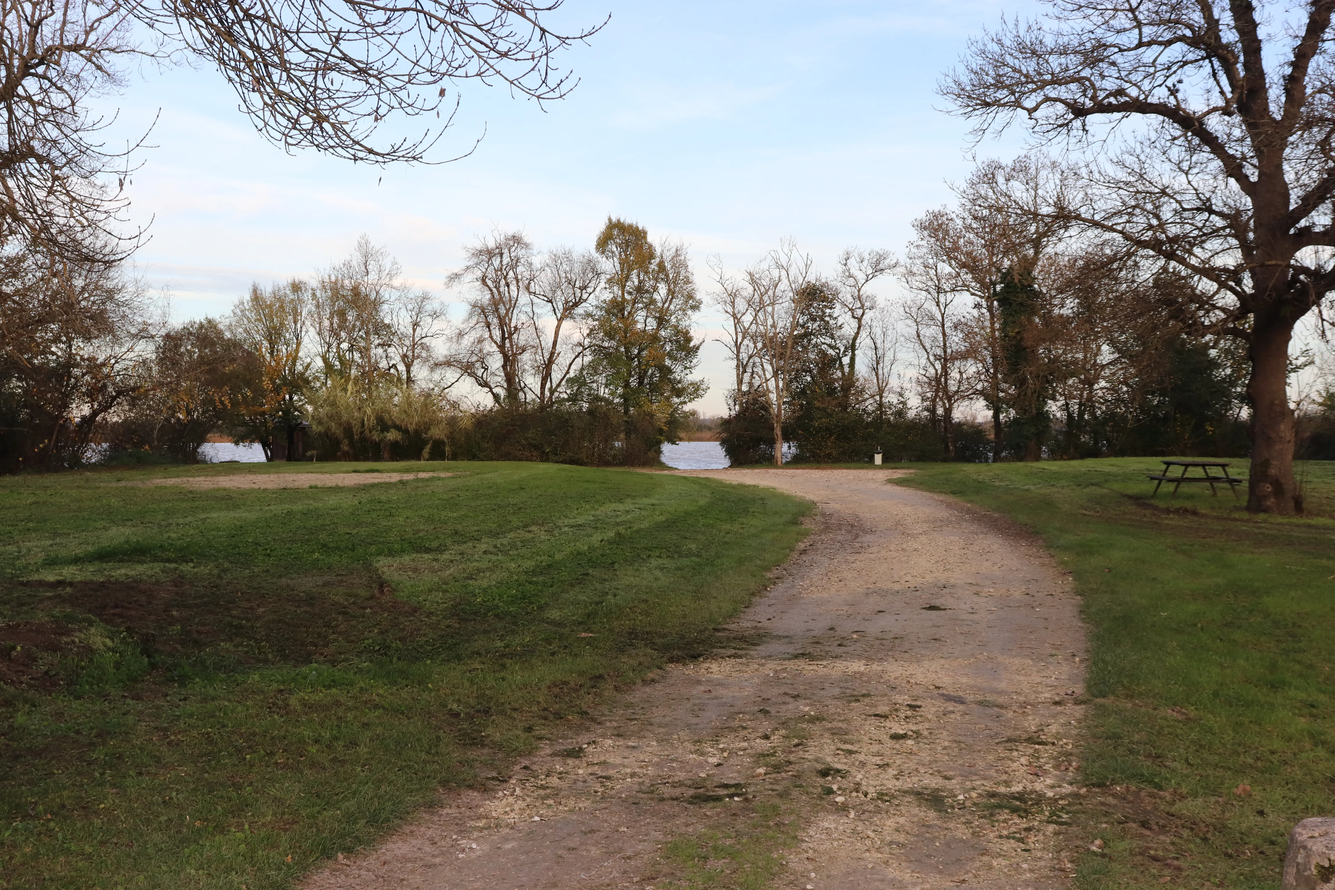
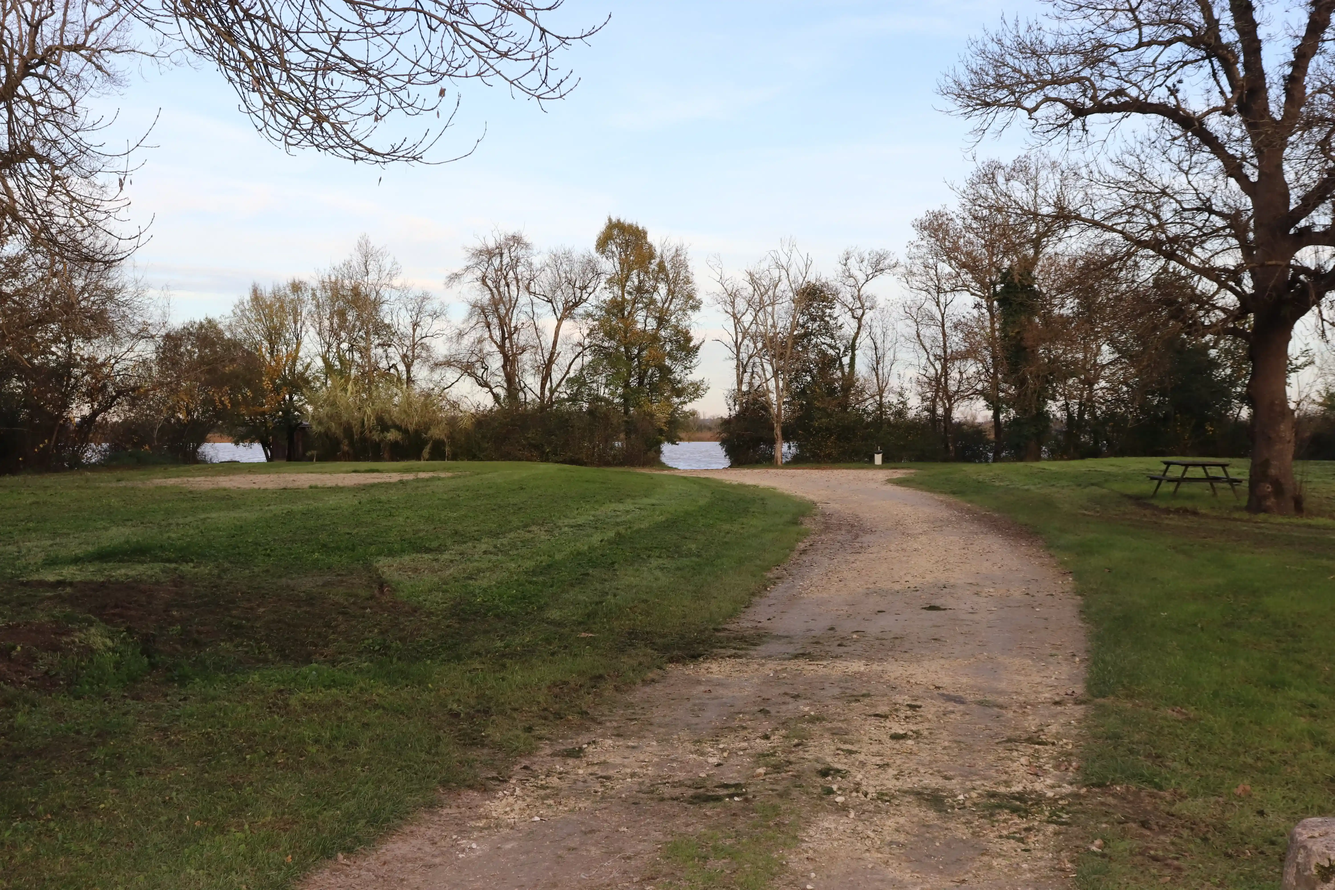
optimised the photos on the top

diff --git a/src/app/page.jsx b/src/app/page.jsx
@@ -3,6 +3,11 @@ import Image from "next/image";
 import logoArcins from "../../public/logoArcins.svg";
 import stat from "../../public/stat.svg";
 import search from "../../public/loupe.svg";
+import mairie from "../../public/mairie.webp";
+import eglise from "../../public/eglise.webp";
+import port1 from "../../public/port1.webp";
+import port4 from "../../public/port4.webp";
+import port5 from "../../public/port5.webp";
 
 import Card from "./components/card";
 import Navbar from "./components/navbarClient";
@@ -35,7 +40,83 @@ export default function Home() {
           <Image src={search} className="w-10 bg-white rounded-r-full px-2" />
         </label>
         <article>
-          <div className="carousselAnim h-[clamp(24rem,50vh,60rem)] lg:w-[32rem] lg:h-[40rem] rounded-tr-[5rem] rounded-md lg:shrink-0"></div>
+          <section className="flex flex-col gap-8 lg:flex-row lg:gap-20">
+            <div className="carousselAnim h-[clamp(24rem,50vh,60rem)] lg:w-[32rem] lg:h-[40rem] lg:rounded-tr-[5rem] rounded-tr-[4rem] lg:shrink-0">
+              <Image
+                src={mairie.src}
+                alt="Mairie"
+                width={1920}
+                height={1080}
+                priority
+                className="carousel-image h-[clamp(24rem,50vh,60rem)] lg:w-[32rem] lg:h-[40rem] lg:rounded-tr-[5rem] rounded-tr-[4rem]"
+              />
+              <Image
+                src={port1.src}
+                alt="Port1"
+                width={1920}
+                height={1080}
+                priority
+                className="carousel-image h-[clamp(24rem,50vh,60rem)] lg:w-[32rem] lg:h-[40rem] lg:rounded-tr-[5rem] rounded-tr-[4rem]"
+              />
+              <Image
+                src={eglise.src}
+                alt="Église"
+                width={1920}
+                height={1080}
+                priority
+                className="carousel-image h-[clamp(24rem,50vh,60rem)] lg:w-[32rem] lg:h-[40rem] lg:rounded-tr-[5rem] rounded-tr-[4rem] rotate-90"
+              />
+              <Image
+                src={port4.src}
+                alt="Port4"
+                width={1920}
+                height={1080}
+                priority
+                className="carousel-image h-[clamp(24rem,50vh,60rem)] lg:w-[32rem] lg:h-[40rem] lg:rounded-tr-[5rem] rounded-tr-[4rem]"
+              />
+              <Image
+                src={port5.src}
+                alt="Port5"
+                width={1920}
+                height={1080}
+                priority
+                className="carousel-image h-[clamp(24rem,50vh,60rem)] lg:w-[32rem] lg:h-[40rem] lg:rounded-tr-[5rem] rounded-tr-[4rem]"
+              />
+            </div>
+            <div className="flex flex-col lg:justify-between gap-10 lg:max-h-[40rem]">
+              <div className="flex flex-col gap-4">
+                <h1 className="font-medium">Bienvenue à Arcins</h1>
+                <p className="font-normal">
+                  Arcins est un charmant village situé dans le Médoc, une région
+                  renommée pour ses paysages viticoles et son patrimoine
+                  naturel.
+                </p>
+                <p className="lineClamp3 font-normal">
+                  Nichée entre les prestigieux vignobles de Margaux et
+                  Saint-Julien, la commune offre une atmosphère paisible et
+                  authentique, idéale pour les amoureux de la nature et de la
+                  tranquillité.
+                </p>
+                <p className="lineClamp display-none2 font-normal">
+                  Avec une population d’environ 350 habitants, Arcins cultive un
+                  esprit convivial et chaleureux, où chaque habitant contribue à
+                  la vie locale. La commune est également bordée par l’estuaire
+                  de la Gironde, offrant des points de vue uniques et des
+                  activités nautiques pour les amateurs de plein air.
+                </p>
+                <p className="display-none lineClamp2 font-normal">
+                  Fière de son patrimoine, Arcins abrite des édifices
+                  historiques tels que l’église Saint-Martin et se distingue par
+                  son implication dans la préservation de l’environnement. C'est
+                  une destination parfaite pour découvrir l’art de vivre
+                  médocain et la richesse culturelle de la région.
+                </p>
+              </div>
+              <div className="lg:flex lg:justify-start justify-end flex">
+                <LinkGen name="En savoir plus" link="#" />
+              </div>
+            </div>
+          </section>
           <h1 className="font-medium mt-20">En ce moment…</h1>
           <p>Découvrez les actualités de la commune</p>
           <section className="flex flex-col items-center md:flex-row md:overflow-x-auto gap-8 scrollbar-none mb-10 -mx-7 px-7">

diff --git a/src/app/globals.css b/src/app/globals.css
@@ -176,31 +176,71 @@ a {
 }
 
 .carousselAnim {
-  background-size: cover;
-  background-position: center;
-  animation: fade 60s infinite;
+  position: relative;
+  overflow: hidden;
 }
 
-@keyframes fade {
+.carousel-image {
+  position: absolute;
+  object-fit: cover;
+  background-repeat: no-repeat;
+  will-change: opacity, z-index;
+  height: clamp(24rem, 50vh, 60rem);
+  width: 32rem;
+  top: 0;
+  left: 0;
+  opacity: 1;
+  transition: opacity 1s ease-in-out;
+  z-index: 0;
+}
+
+@media (min-width: 1024px) {
+  .carousel-image {
+    height: 40rem;
+  }
+}
+
+.carousel-image:nth-child(1) {
+  animation: fadeOut 60s infinite;
+  animation-delay: 0s;
+  z-index: 5;
+}
+
+.carousel-image:nth-child(2) {
+  animation: fadeOut 60s infinite;
+  animation-delay: 12s;
+  z-index: 4;
+}
+
+.carousel-image:nth-child(3) {
+  animation: fadeOut 60s infinite;
+  animation-delay: 24s;
+  z-index: 3;
+}
+
+.carousel-image:nth-child(4) {
+  animation: fadeOut 60s infinite;
+  animation-delay: 36s;
+  z-index: 2;
+}
+
+.carousel-image:nth-child(5) {
+  animation: fadeOut 60s infinite;
+  animation-delay: 48s;
+  z-index: 1;
+}
+
+@keyframes fadeOut {
   0%,
-  20% {
-    background-image: url("/mairie.webp");
+  19% {
+    opacity: 1;
   }
   20%,
-  40% {
-    background-image: url("/port1.webp");
+  99% {
+    opacity: 0;
   }
-  40%,
-  60% {
-    background-image: url("/eglise.webp");
-  }
-  60%,
-  80% {
-    background-image: url("/port4.webp");
-  }
-  80%,
   100% {
-    background-image: url("/port5.webp");
+    opacity: 1;
   }
 }
 
@@ -208,24 +248,6 @@ a {
   background-size: cover;
   background-position: center;
   animation: fade2 10s infinite;
-}
-
-@keyframes fade2 {
-  0% {
-    background-image: url("/image.png");
-  }
-  25% {
-    background-image: url("/image copy 2.png");
-  }
-  50% {
-    background-image: url("/image.png");
-  }
-  75% {
-    background-image: url("/image copy 2.png");
-  }
-  100% {
-    background-image: url("/image.png");
-  }
 }
 
 @media (min-width: 1024px) {

diff --git a/src/app/components/footer.jsx b/src/app/components/footer.jsx
@@ -20,7 +20,15 @@ export default function Footer() {
           </li>
         </ul>
         <ul className="flex flex-col items-center gap-2">
-          <li className="text-white font-light">Tel : 05 56 58 93 90</li>
+          <li className="text-white font-light">
+            Tel :{" "}
+            <a
+              href="tel:0556589390"
+              className="text-green-300 underline hover:text-green-600 font-light"
+            >
+              05 56 58 93 90
+            </a>
+          </li>
           <li className="text-white font-light">
             Mail :{" "}
             <a

diff --git a/src/app/layout.js b/src/app/layout.js
@@ -8,6 +8,13 @@ export const metadata = {
 export default function RootLayout({ children }) {
   return (
     <html lang="fr">
+      <head>
+        <link rel="preload" href="/mairie.webp" as="image" />
+        <link rel="preload" href="/port1.webp" as="image" />
+        <link rel="preload" href="/eglise.webp" as="image" />
+        <link rel="preload" href="/port4.webp" as="image" />
+        <link rel="preload" href="/port5.webp" as="image" />
+      </head>
       <body>{children}</body>
     </html>
   );
